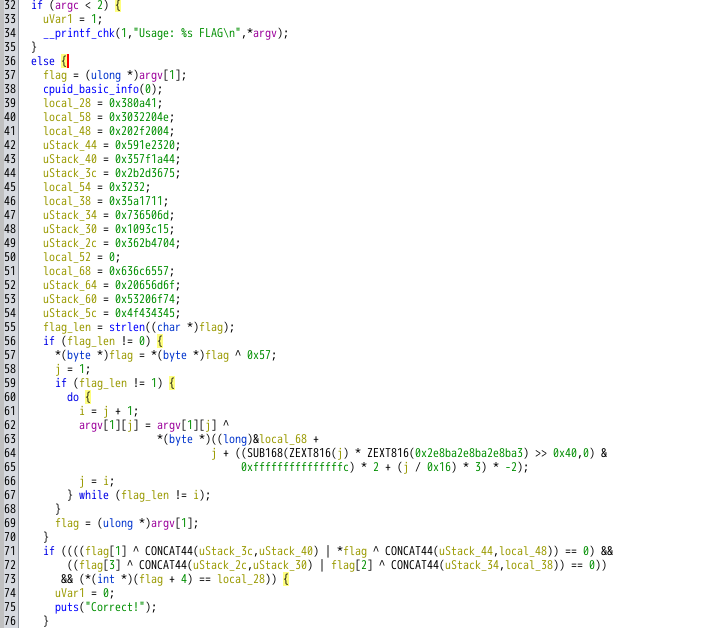
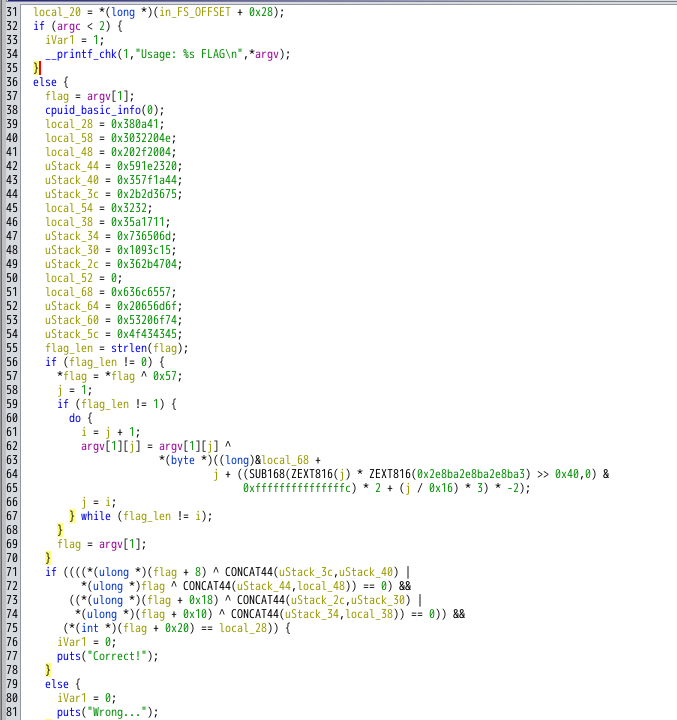
update babycmp

Changed region(s): [[0.0, 0.0, 1.0, 1.0]]

diff --git a/reversing/babycmp/solve/solve.py b/reversing/babycmp/solve/solve.py
@@ -1,0 +1,15 @@
+bytes = [0x04, 0x20, 0x2f, 0x20, 0x20, 0x23, 0x1e, 0x59, 0x44, 0x1a, 0x7f, 0x35, 0x75, 0x36, 0x2d, 0x2b, 0x11, 0x17, 0x5a, 0x03, 0x6d, 0x50, 0x36, 0x07, 0x15, 0x3c, 0x09, 0x01, 0x04, 0x47, 0x2b, 0x36, 0x41, 0x0a, 0x38]
+c = b'00000000000000002e8ba2e8ba2e8ba3'
+xor_bytes = [0x57, 0x65, 0x6c, 0x63, 0x6f, 0x6d, 0x65, 0x20, 0x74, 0x6f, 0x20, 0x53, 0x45, 0x43, 0x43, 0x4f, 0x4e, 0x20, 0x32, 0x30, 0x32, 0x32]
+plain = ""
+for i in range(35):
+    A = i * int(c, 16) >> 64
+    A = A & 0b1111111111111111111111111111111111111111111111111111111111111100
+    A = A * 2 + int(i/22) * 3
+    print(i + A * (-2))
+
+    B = i + A * (-2)
+
+    plain += chr(bytes[i] ^ xor_bytes[B])
+
+print(plain)

diff --git a/reversing/babycmp/solve/writeup.md b/reversing/babycmp/solve/writeup.md
@@ -1,2 +1,39 @@
 # babycmp (SECCON CTF 2022)
 
+## 静的解析
+実行してみると，コマンドライン引数でFlagを入力しないといけないことがわかる．求めたいものを入力することは不可能なので，いつものようにリバースエンジニアリングを行い比較処理を解読する必要がある．
+<figure><img src="../assets/usage.png" alt=""><img src="../assets/main2.png" alt=""><figcaption></figcaption></figure>
+
+シンボル情報が消されているわけでもないので，Ghidraで静的解析を行うとmain関数がすぐに見つかる．
+Ghidraのデコンパイル結果の変数が分かりにくいので，[Rename Variable]や[Retype Variable]で変数名や型を変更しておく．
+<figure><img src="../assets/decompiler2.png" alt=""><img src="../assets/main2.png" alt=""><figcaption></figcaption></figure>
+<figure><img src="../assets/decompile.png" alt=""><img src="../assets/main2.png" alt=""><figcaption>main関数のデコンパイル結果</figcaption></figure>
+
+main関数で行っている処理は大きく分けて二つで，
+1. コマンドライン引数で入力した文字列(argv[1])のそれぞれの文字を何かとXORしている．(60行～67行)
+2. 1でXORを取った文字列が内部のバイト列と一致していたらCorrect!を出力．(71行～78行)
+である．
+
+XORなので，逆の処理を書けば良い．
+    ちなみに，デコンパイル結果にあるSUB168やZEXT816はGhidra独自の組み込み関数のようなもの．うまくPコードからデコンパイルできなかったときに表示されるらしい．
+    リファレンスは，[Help] > [Contents]で開くGhidra Helpで検索すれば，Ghidra Conceptsというページに詳しく書かれている． 
+
+    例えば，ZEXT14は1バイトを4バイトにゼロ拡張する．
+
+    ZEXT14(x) - Zero-extension operator - INT_ZEXT
+        ・The digit '1' indicates the size of the input operand 'x' in bytes.
+        ・The digit '4' indicates the size of the output in bytes.
+            ZEXT24(0xaabb) = 0x0000aabb
+
+
+
+## 復号スクリプト
+CONCAT44は4バイトと4バイトを連結する関数のようなもので，71行目から比較しているバイト列は
+```math 
+uStack_44 + local_48 + uStack_3c + uStack_40 + uStack_34 + local_38 + uStack_2c + uStack_30 + local_28
+```
+なので，
+```python
+b'\x59\x1e\x23\x20\x20\x2f\x20\x04\x2b\x2d\x36\x75\x35\x7f\x1a\x44\x07\x36\x50\x6d\x03\x5a\x17\x11\x36\x2b\x47\x04\x01\x09\x3c\x15\x38\x0a\x41'
+```
+と考えた．このバイト列からflagは35文字であることが分かる．
